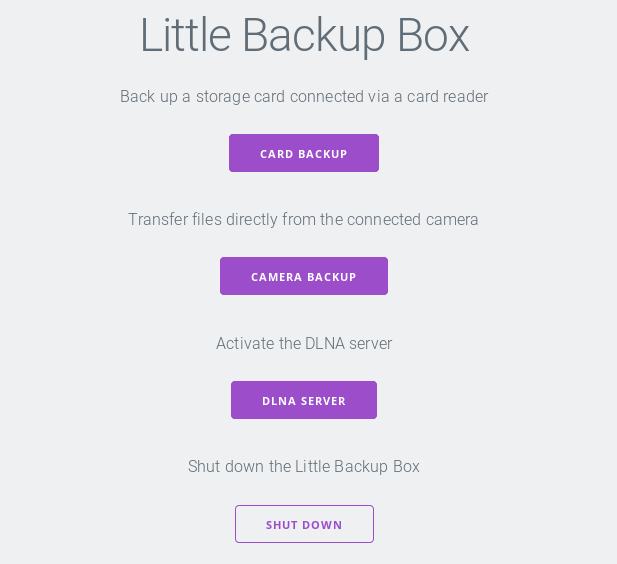
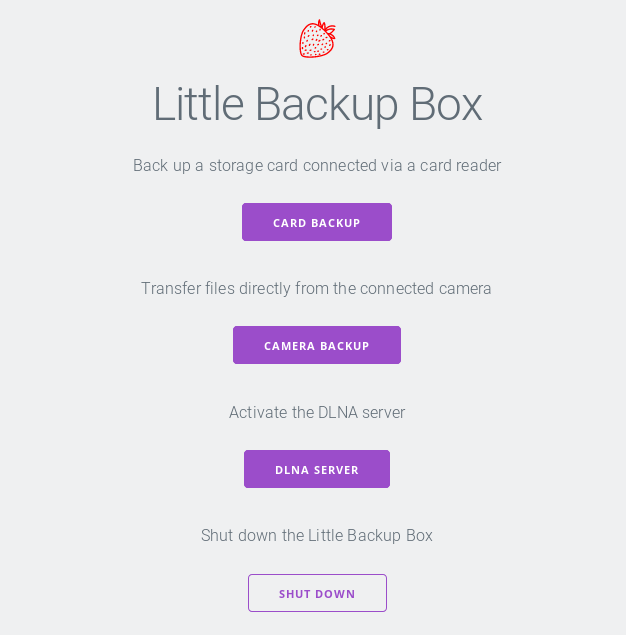
Further tweaks

diff --git a/scripts/index.php b/scripts/index.php
@@ -10,16 +10,23 @@
       <link rel="stylesheet" href="//fonts.googleapis.com/css?family=Roboto:300,300italic,700,700italic">
       <meta name="viewport" content="width=device-width, initial-scale=1">
       <style>
-
        #content {
 	   margin: 0px auto;
            text-align: center;
+       }
+       img {
+	   display: block;
+	   margin-left: auto;
+	   margin-right: auto;
+	   margin-top: 1%;
+	   margin-bottom: 1%;
        }
       </style>
     </head>
 
     <body>
 	<div id="content">
+	    <img src="ichigo.svg" height="39px" alt="Ichigo">
             <h1>Little Backup Box</h1>
             <p>Back up a storage card connected via a card reader</p>
             <p>
